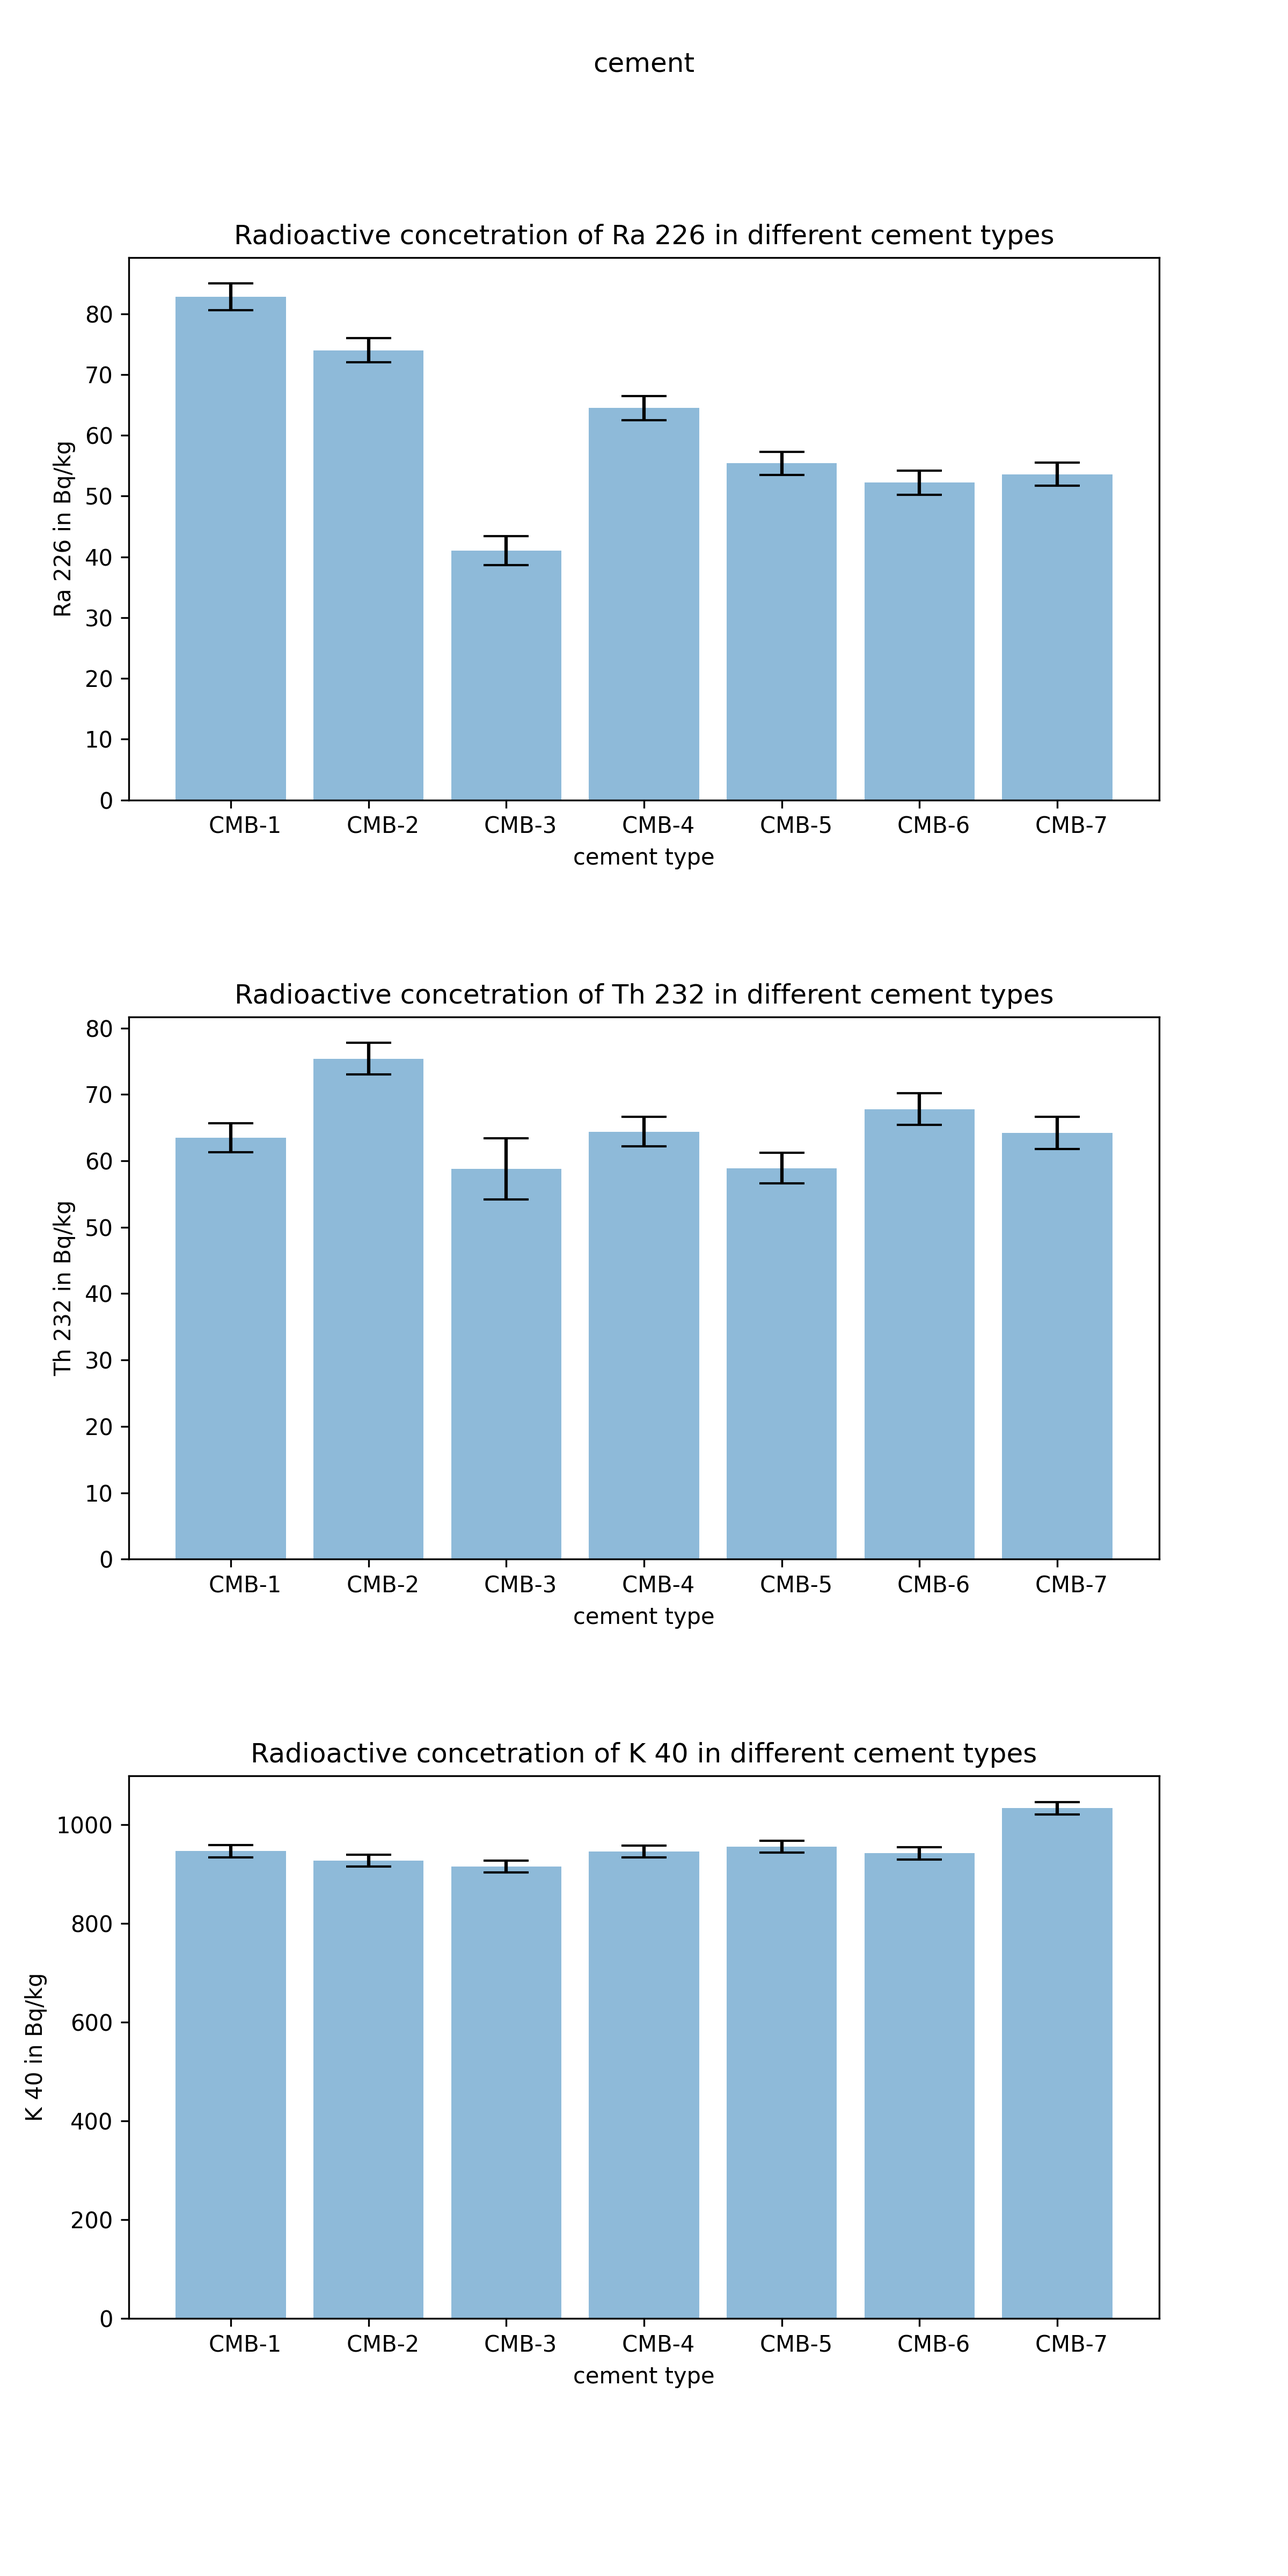
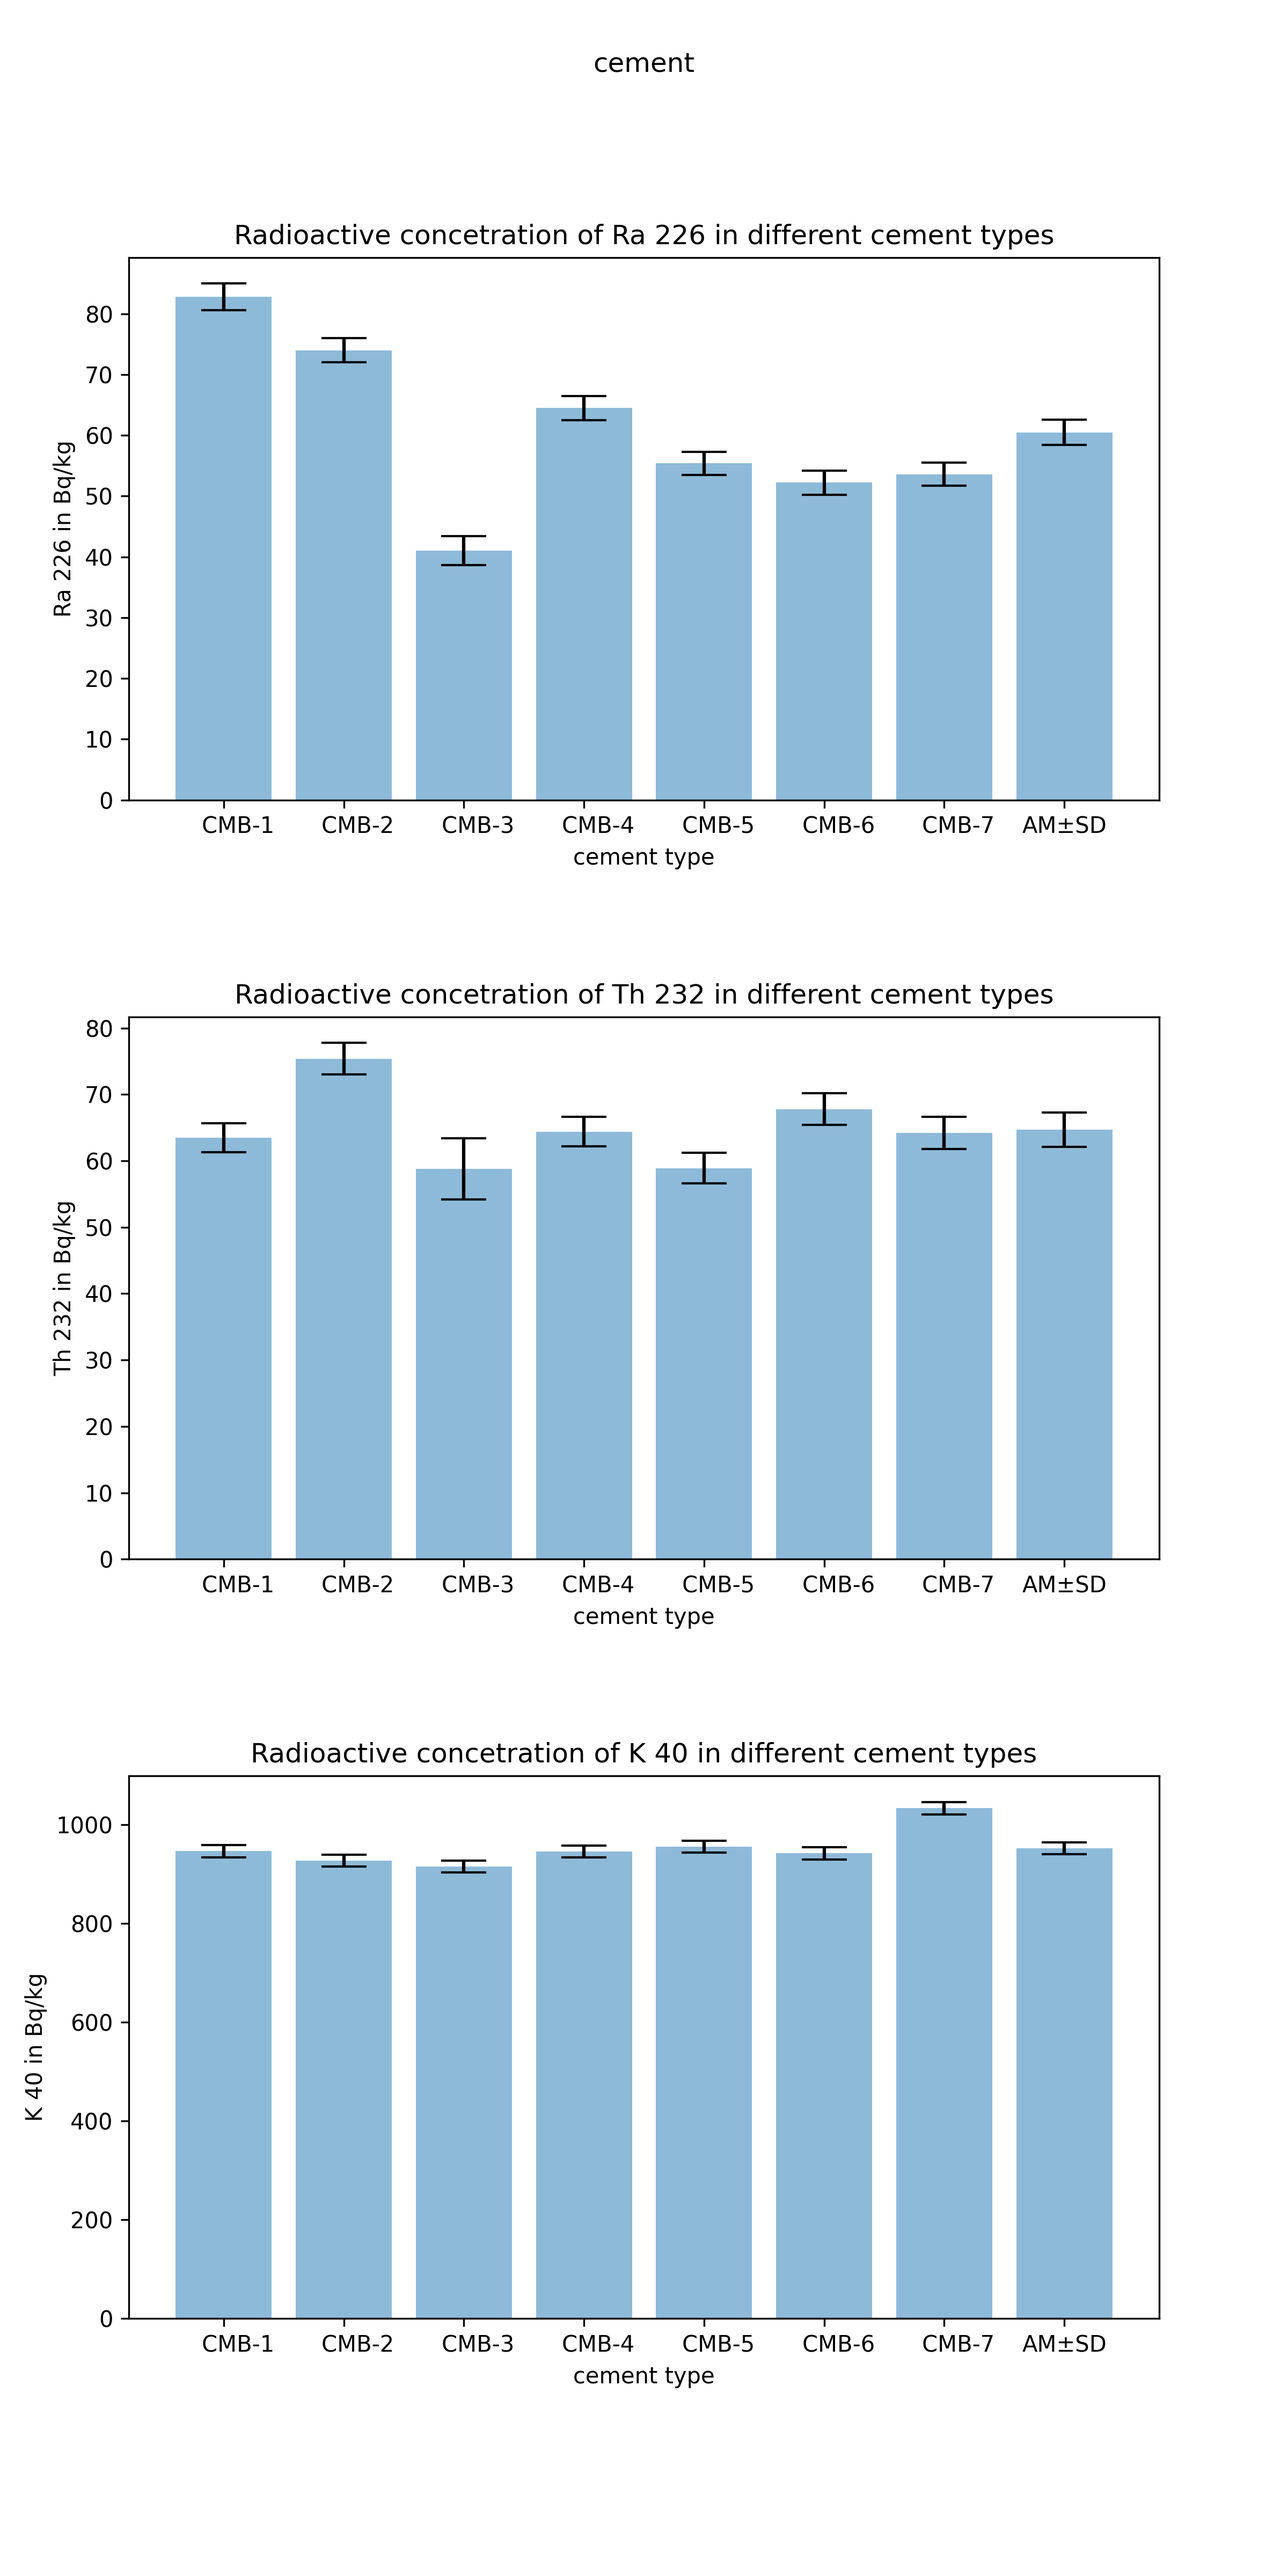
new_update

diff --git a/datenbanken.py b/datenbanken.py
@@ -3,6 +3,9 @@ import seaborn as sns
 import numpy as np
 import matplotlib.pyplot as plt
 from IPython.display import display
+import geopandas as gpd
+import matplotlib.pyplot as plt
+import folium
 
 df1 = pd.read_excel('https://figshare.com/ndownloader/files/2364328')
 df2 = pd.read_excel('https://figshare.com/ndownloader/files/2364329')
@@ -22,8 +25,9 @@ new_df_Th_232_std_div_coloumn_name = "Th 232 standard deviation"
 new_df_K_40_value_coloumn_name = "K 40 Value"
 new_df_K_40_std_div_coloumn_name = "K 40 standard deviation"
 
-column_name_arr = ["Cement Sample", "Fly ash Sample", "Ra 226 Value", "Ra 226 standard deviation",
+column_name_arr = ["Ra 226 Value", "Ra 226 standard deviation",
                    "Th 232 Value", "Th 232 standard deviation", "K 40 Value", "K 40 standard deviation"]
+sample_name_arr = ["Cement Sample", "Fly ash Sample"]
 
 
 def data_filter(data, column_index_string):
@@ -73,13 +77,13 @@ def create_dataframe(column_type_name, row_type_arr, Ra_226_column_name_val_arr,
 '''
 
 
-def create_dataframe1(column_name_arr, row_type_arr, Ra_226_val_arr, Ra_226_std_dev_arr, Th_232_val_arr, Th_232_std_dev_arr, K_40_val_arr, K_40_std_dev_arr):
+def create_dataframe1(sample_name, column_name_arr, row_type_arr, Ra_226_val_arr, Ra_226_std_dev_arr, Th_232_val_arr, Th_232_std_dev_arr, K_40_val_arr, K_40_std_dev_arr):
     # np_arr = np.asarray(val_arr)
     # df = pd.DataFrame(np_arr,
     # columns=[column_name_val_arr])
     # initialize data of lists.
-    data = {column_name_arr[0]: row_type_arr, column_name_arr[2]: Ra_226_val_arr, column_name_arr[3]: Ra_226_std_dev_arr, column_name_arr[4]
-        : Th_232_val_arr, column_name_arr[5]: Th_232_std_dev_arr, column_name_arr[6]: K_40_val_arr, column_name_arr[7]: K_40_std_dev_arr}
+    data = {sample_name: row_type_arr, column_name_arr[0]: Ra_226_val_arr, column_name_arr[1]: Ra_226_std_dev_arr, column_name_arr[2]
+        : Th_232_val_arr, column_name_arr[3]: Th_232_std_dev_arr, column_name_arr[4]: K_40_val_arr, column_name_arr[5]: K_40_std_dev_arr}
     new_df = pd.DataFrame(data)
     new_df = new_df.reset_index(drop=True)
     display(new_df)
@@ -87,17 +91,25 @@ def create_dataframe1(column_name_arr, row_type_arr, Ra_226_val_arr, Ra_226_std_
 
 
 error1_vektor_cement_Ra_226 = error_filter(df1[2:9], column_Ra_226)
+error1_vektor_cement_Ra_226.append(round((sum(error1_vektor_cement_Ra_226)/len(error1_vektor_cement_Ra_226)), 1))
 error2_vektor_cement_Th_232 = error_filter(df1[2:9], column_Th_232)
+error2_vektor_cement_Th_232.append(round((sum(error2_vektor_cement_Th_232)/len(error2_vektor_cement_Th_232)), 1))
 error3_vektor_cement_K_40 = error_filter(df1[2:9], column_K_40)
+error3_vektor_cement_K_40.append(round((sum(error3_vektor_cement_K_40)/len(error3_vektor_cement_K_40)), 1))
 # print(best_ranking(df1[2:9]))
 # chart = sns.barplot(data = df1, x= df1[2:9]['<b> Sample</b>'],  y = data_filter(df1[2:9]), errorbar=None)
-
+add_row = pd.Series(["AM±SD"])
 x_cement = df1[2:9][column_sample_type]
-y_cement_Ra_226 = data_filter(df1[2:9], column_Ra_226)
-y_cement_Th_232 = data_filter(df1[2:9], column_Th_232)
-y_cement_K_40 = data_filter(df1[2:9], column_K_40)
+x_cement = pd.concat([x_cement, add_row], ignore_index=True)
 
-cement_df = create_dataframe1(column_name_arr, x_cement,  y_cement_Ra_226, error1_vektor_cement_Ra_226,
+y_cement_Ra_226 = data_filter(df1[2:9], column_Ra_226)
+y_cement_Ra_226.append(round((sum(y_cement_Ra_226)/len(y_cement_Ra_226)), 1))
+y_cement_Th_232 = data_filter(df1[2:9], column_Th_232)
+y_cement_Th_232.append(round((sum(y_cement_Th_232)/len(y_cement_Th_232)), 1))
+y_cement_K_40 = data_filter(df1[2:9], column_K_40)
+y_cement_K_40.append(round((sum(y_cement_K_40)/len(y_cement_K_40)), 1))
+
+cement_df = create_dataframe1(sample_name_arr[0], column_name_arr, x_cement,  y_cement_Ra_226, error1_vektor_cement_Ra_226,
                               y_cement_Th_232, error2_vektor_cement_Th_232, y_cement_K_40, error3_vektor_cement_K_40)
 
 fig, ax = plt.subplots(3)
@@ -127,17 +139,30 @@ plt.savefig('figure.png', dpi=300)
 
 
 error1_vektor_fly_ash_Ra_226 = error_filter(df1[11:16], column_Ra_226)
+error1_vektor_fly_ash_Ra_226.append(
+    round((sum(error1_vektor_fly_ash_Ra_226)/len(error1_vektor_fly_ash_Ra_226)), 1))
 error2_vektor_fly_ash_Th_232 = error_filter(df1[11:16], column_Th_232)
+error2_vektor_fly_ash_Th_232.append(
+    round((sum(error2_vektor_fly_ash_Th_232)/len(error2_vektor_fly_ash_Th_232)), 1))
 error3_vektor_fly_ash_K_40 = error_filter(df1[11:16], column_K_40)
+error3_vektor_fly_ash_K_40.append(
+    round((sum(error3_vektor_fly_ash_K_40)/len(error3_vektor_fly_ash_K_40)), 1))
 # print(best_ranking(df1[2:9]))
 # chart = sns.barplot(data = df1, x= df1[2:9]['<b> Sample</b>'],  y = data_filter(df1[2:9]), errorbar=None)
 
 x_fly_ash = df1[11:16][column_sample_type]
-y_fly_ash_Ra_226 = data_filter(df1[11:16], column_Ra_226)
-y_fly_ash_Th_232 = data_filter(df1[11:16], column_Th_232)
-y_fly_ash_K_40 = data_filter(df1[11:16], column_K_40)
+x_fly_ash = pd.concat([x_fly_ash, add_row], ignore_index=True)
 
-fly_ash_df = create_dataframe1(column_name_arr, x_fly_ash,  y_fly_ash_Ra_226, error1_vektor_fly_ash_Ra_226,
+y_fly_ash_Ra_226 = data_filter(df1[11:16], column_Ra_226)
+y_fly_ash_Ra_226.append(
+    round((sum(y_fly_ash_Ra_226)/len(y_fly_ash_Ra_226)), 1))
+y_fly_ash_Th_232 = data_filter(df1[11:16], column_Th_232)
+y_fly_ash_Th_232.append(
+    round((sum(y_fly_ash_Th_232)/len(y_fly_ash_Th_232)), 1))
+y_fly_ash_K_40 = data_filter(df1[11:16], column_K_40)
+y_fly_ash_K_40.append(round((sum(y_fly_ash_K_40)/len(y_fly_ash_K_40)), 1))
+
+fly_ash_df = create_dataframe1(sample_name_arr[1], column_name_arr, x_fly_ash,  y_fly_ash_Ra_226, error1_vektor_fly_ash_Ra_226,
                                y_fly_ash_Th_232, error2_vektor_fly_ash_Th_232, y_fly_ash_K_40, error3_vektor_fly_ash_K_40)
 
 fig, ax = plt.subplots(3)
